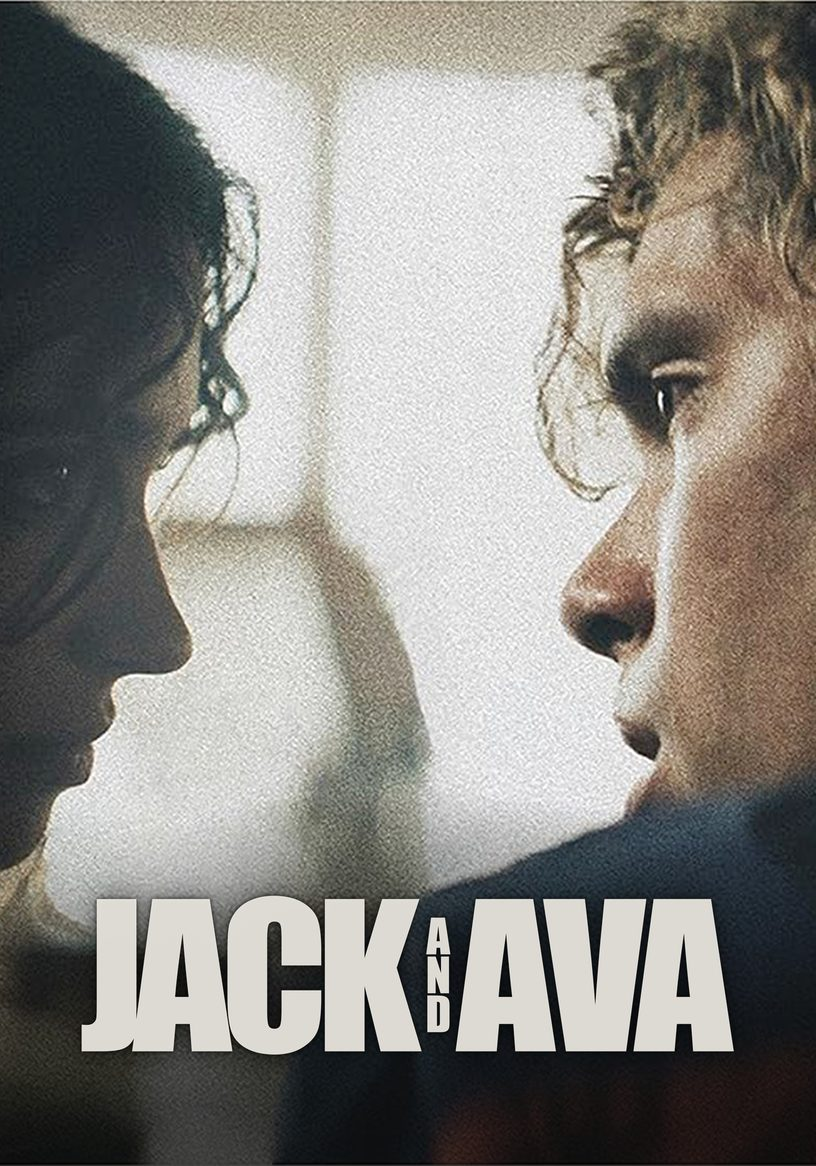
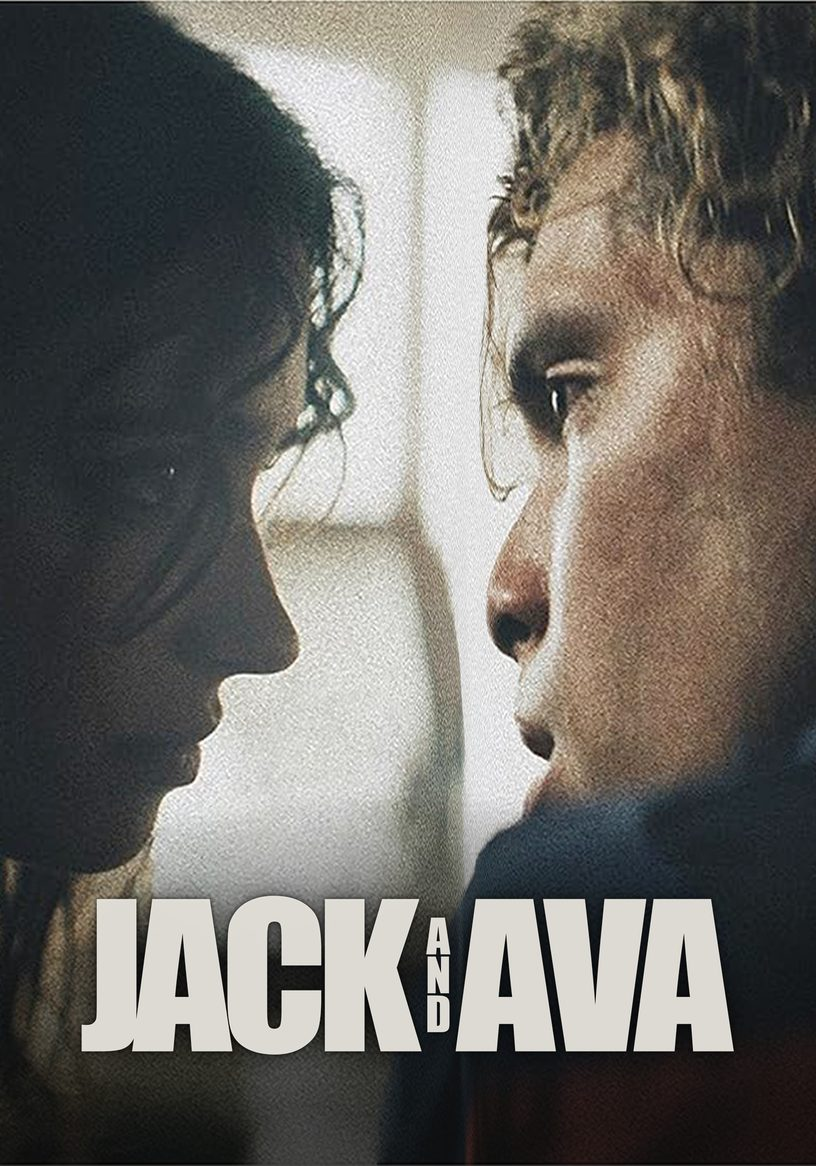
Close the gap between the two faces in the portrait cover
Compresses only the empty wall between them, leaving both faces at
full scale. Face gap drops from 41 percent of the tile to 18, which
brings noticeably more of each face into frame.

diff --git a/index.html b/index.html
@@ -405,15 +405,18 @@
           </div>
           <p class="legend">
             Both at the exact size Tubi renders a browse tile. The current art is the release
-            poster, which puts a cream border and a boxed still into a slot that gives you
-            every pixel of it.
+            poster, which puts a cream border and a boxed still into a slot that would give
+            you every pixel of it.
           </p>
         </div></div>
         <p>
           Tubi's grid is portrait, so the 16:9 cover has no slot here and this needs its own
           asset. The proposed tile is the same frame and the same logotype as Option 1,
-          recomposed to fill 408&#215;583 edge to edge. It clears both chins, not just both
-          mouths, because the taller shape leaves room to drop the type further.
+          recomposed to fill 408&#215;583 edge to edge, and it clears both chins rather than
+          just both mouths. The empty wall between the two of them has also been compressed,
+          which closes the gap from 41 percent of the tile down to 18 and brings noticeably
+          more of both faces into frame. Neither face is scaled or moved; only the dead space
+          between them gives ground.
         </p>
       </div>
 
